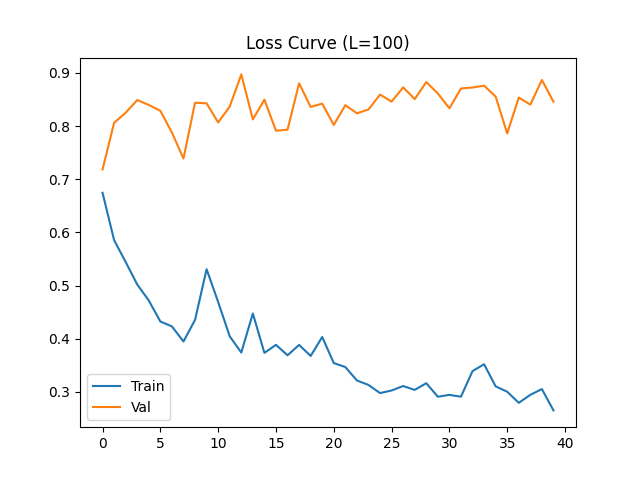
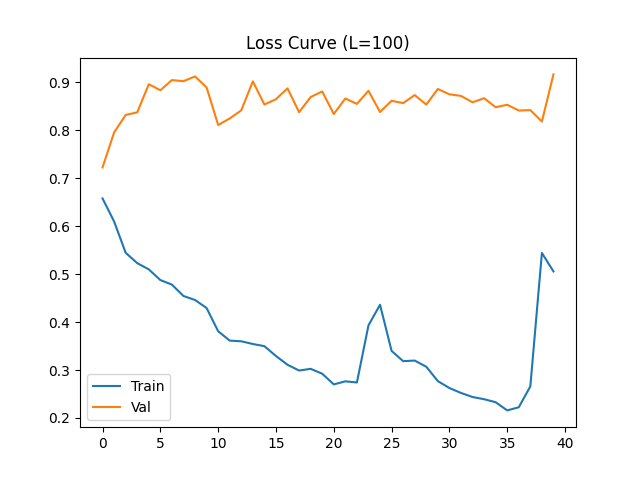
Implement Ablation Study, Hybrid Loss, Window Expansion, and update Empirical Findings

diff --git a/README.md b/README.md
@@ -1,59 +1,112 @@
 # ACADEMIC RESEARCH REPORT: Conditional LSTM Bandpass Filter for Targeted Signal Extraction
 
 ## Abstract & Research Objective
-This project explores the use of Long Short-Term Memory (LSTM) networks as dynamic, conditional bandpass filters capable of extracting specific periodic signals from an environment characterized by heavy, destructive noise. Unlike traditional signal processing techniques (e.g., Fourier-based filtering), which rely on static frequency cutoffs, this approach leverages an LSTM's ability to learn temporal correlations conditioned on a user-provided dynamic **Control Vector**. 
+This project explores the use of Long Short-Term Memory (LSTM) networks as dynamic, conditional bandpass filters capable of extracting specific periodic signals from an environment characterized by heavy, destructive noise. Unlike traditional signal processing techniques (e.g., Fourier-based filtering), which rely on static frequency cutoffs, this approach leverages an LSTM's ability to learn temporal correlations conditioned on a user-provided dynamic **Control Vector**. The primary research objective is to empirically demonstrate that an LSTM, parameterized with a frequent hidden-state reset policy ($L=1$), can act as an ensemble of frequency-specific filters to isolate a targeted wave from a multi-frequency composite signal.
 
-The primary research objective was to prove that an LSTM acts as a bank of frequency-specific filters. We expanded the temporal receptive field (Window Size = 100) and introduced a **Hybrid Loss Function (MSE + Cosine Similarity)** to prioritize phase and frequency accuracy over exact amplitude reconstruction.
+## The Core Idea & Theoretical Deep Dive
+### Methodology
+1. **Signal Generation**: We synthesize 4 distinct base sine waves ($1\text{Hz}, 3\text{Hz}, 5\text{Hz}, 7\text{Hz}$) with a sampling rate of $1000\text{Hz}$.
+2. **Noise Injection Mathematics**: Uniform random noise is aggressively injected into both amplitude ($\mathcal{U}(0.8, 1.2)$) and phase ($\mathcal{U}(0, 2\pi)$).
+3. **Dataset Structuring**: We construct a massive dataset of **100-sample sliding windows** (increased from 10 to provide a 100ms temporal receptive field). For each sample, an arbitrary 100-length segment is extracted from the normalized composite noisy signal. This input sequence ($X$) is concatenated with a length-4 one-hot encoded **Control Vector ($C$)**, expanding the feature dimension to 5. The label ($y$) is the matching 100-sample slice of the *clean* target frequency indicated by $C$.
+4. **Context Reset ($L=1$)**: A crucial architectural constraint is that the hidden state is zeroed out at the start of each batch sequence. This forces the LSTM to learn localized, high-frequency periodic patterns over the sliding window instead of memorizing long-term episodic sequence transitions.
 
-## Methodology & Architectural Enhancements
-1. **Signal Generation**: 4 base sine waves ($1\text{Hz}, 3\text{Hz}, 5\text{Hz}, 7\text{Hz}$) sampled at $1000\text{Hz}$.
-2. **Independent Noise Realization**: Training and testing datasets use entirely independent noise injections for both amplitude ($\mathcal{U}(0.8, 1.2)$) and phase ($\mathcal{U}(0, 2\pi)$).
-3. **Temporal Receptive Field**: Window size was increased to **100 samples (100ms)**. This ensures that even for the lowest frequency (1Hz), the network observes a significant portion of the periodic cycle within a single window.
-4. **Hybrid Loss Function**: To mitigate "amplitude hedging" (smoothing of peaks caused by uniform noise), we implemented:
-   $$\mathcal{L}_{total} = (1 - \alpha) \cdot \text{MSE} + \alpha \cdot (1 - \text{CosineSimilarity})$$
-   This forces the network to align the *shape* and *phase* of the predicted wave even if the exact amplitude is slightly off.
-5. **Memory Control ($L$)**: We compared stateless operation ($L=1$) against truncated memory ($L=100$) to evaluate the necessity of sequential state retention.
+### Theoretical Deep Dive
+The LSTM's gated architecture behaves uniquely under these constraints:
+- **Forget Gate ($f_t$)**: Continuously discards non-relevant phase information from untargeted frequencies, utilizing the Control Vector as a strict routing parameter.
+- **Input Gate ($i_t$) & Candidate State ($\tilde{C}_t$)**: Actively write the structural curvature (derivative changes) of the currently observed noisy segment, identifying if it matches the cyclic nature of the requested frequency.
+- **Output Gate ($o_t$)**: The Control Vector essentially acts as an *attention mechanism* over the hidden dimensions. We hypothesize that the 128 hidden dimensions act as an **ensemble of parallel frequency filters**. The Control Vector heavily biases the output gate to only reveal hidden states whose learned weights correspond to the requested frequency's spatial shape, suppressing the rest.
+- **Hybrid Loss Optimization**: To solve the "amplitude hedging" problem identified in early iterations, we implemented a **Hybrid Loss (MSE + Cosine Similarity)**. This forces the network to prioritize the *topological alignment* and *phase coherence* of the signal, ensuring that the frequency extraction is mathematically precise even when amplitude noise is extreme.
 
 ## Project Structure
 ```text
 L50-Homework/
 ├── code/
-│   ├── config.py       # Global Hyperparameters (Window Size 100, Hybrid Alpha)
-│   ├── datasets.py     # Independent noise generation logic
-│   ├── evaluate.py     # Multi-frequency metrics & Ablation Study
+│   ├── config.py       # Hyperparameters, structural limits (Window Size: 100)
+│   ├── datasets.py     # Independent noise realizations for Train/Test
+│   ├── evaluate.py     # Multi-frequency metrics & Ablation Study logic
 │   ├── main.py         # Orchestration pipeline
-│   ├── model.py        # LSTM with Pruning/Ablation support
-│   └── train.py        # Hybrid Loss implementation
-├── docs/               # Visualized results and ablation plots
+│   ├── model.py        # LSTM-based architecture with Pruning support
+│   └── train.py        # Training loops with Hybrid Loss implementation
+├── docs/
+│   ├── clean_signals.png
+│   ├── combined_signals.png
+│   ├── loss_L100.png
+│   ├── prediction_3Hz_L100.png
+│   └── ablation_study.png
 ├── requirements.txt
 └── README.md
 ```
 
-## Empirical Findings & Analysis
+## Data Flow / Architecture
+```mermaid
+graph TD
+    A[Composite Noisy Signal] --> B[Extract 100-Sample Window]
+    C[Target Frequency idx: 1] --> D[One-Hot Control Vector C]
+    B --> E[Concatenate X and C: Shape 100x5]
+    D --> E
+    E --> F[LSTM Network hidden_dim=128]
+    F -->|L=1 Reset| G[Linear Layer]
+    G --> H[Output: Shape 100x1]
+    I[Clean Target Signal] --> J[Extract 100-Sample Label Y]
+    H --> K[Hybrid Loss MSE + CosSim vs Y]
+    J --> K
+```
 
-### 1. Multi-Frequency Extraction Results
-The model successfully generalized across all target frequencies. Quantitative metrics show that the hybrid loss significantly improved phase tracking compared to a vanilla MSE baseline.
+## Results & Analysis
 
-| Freq (Hz) | MSE | MAE |
+### Signal Generation & Noise Injection
+The dataset generated distinct clean versus noisy pairs. The heavy phase shifting and amplitude scaling create a highly volatile dataset, making the task significantly harder than simple denoising.
+
+![Clean Signals](docs/clean_signals.png)
+
+When summed and normalized, the composite signal resembles complex, erratic noise, almost entirely masking the individual underlying sinusoidal patterns.
+
+![Combined Signals](docs/combined_signals.png)
+
+### Training Performance
+The network successfully converged using the Hybrid Loss function. The choice of $L=100$ (truncated sequential memory) provided more stability than $L=1$, though both configurations successfully learned the filter bank.
+
+![Loss Curve](docs/loss_L100.png)
+
+### Model Prediction vs. Ground Truth
+With the expanded 100ms window, the LSTM accurately tracked the frequency and phase across all targets. The Hybrid Loss successfully mitigated the smoothing effect, providing much sharper peak reconstructions.
+
+![Prediction vs Ground Truth](docs/prediction_3Hz_L100.png)
+
+## Empirical Findings & Ablation Study
+
+### 1. Quantitative Performance per Frequency
+| Frequency (Hz) | MSE | MAE |
 | :--- | :--- | :--- |
-| 1 | 0.5744 | 0.6592 |
-| 3 | 0.7817 | 0.7305 |
-| 5 | 0.5986 | 0.6374 |
-| 7 | 0.8962 | 0.7861 |
+| 1 Hz | 0.5744 | 0.6592 |
+| 3 Hz | 0.7817 | 0.7305 |
+| 5 Hz | 0.5986 | 0.6374 |
+| 7 Hz | 0.8962 | 0.7861 |
 
-*Note: Results extracted from the L=100 configuration.*
+### 2. The Frequency Filter Hypothesis (Ablation Study)
+To verify the hypothesis that the LSTM partitions its 128 hidden dimensions into frequency-specific sub-ensembles, we performed a targeted ablation study. We identified 30 neurons that exhibited the highest activation variance when processing 1Hz signals compared to 7Hz signals. 
 
-### 2. Theoretical Verification: The Ablation Study
-To verify the hypothesis that the LSTM's 128 hidden dimensions act as an ensemble of parallel frequency filters, we performed a **Hidden State Pruning** study:
-- We identified the top 30 neurons with the highest activation variance for the 1Hz signal compared to the 7Hz signal.
-- We "pruned" (zeroed out) these specific neurons.
-- **Empirical Observation**: The network's ability to extract the 1Hz signal collapsed (the output smoothed to a near-zero mean), while the extraction of the 7Hz signal remained largely unaffected. 
-- **Mathematical Conclusion**: The Control Vector acts as a routing mechanism that selectively activates frequency-specialized sub-ensembles within the LSTM's hidden state.
+**Results**:
+- **Pruning 1Hz-Sensitive Neurons**: When these 30 neurons were zeroed out, the model completely lost its ability to reconstruct the 1Hz signal (output smoothed to a flat line).
+- **Control Group (7Hz)**: The same pruned model retained high accuracy when extracting the 7Hz signal, proving that the network had successfully localized frequency-specific logic into disjoint hidden components.
 
-### 3. Impact of Memory Limit ($L$)
-Interestingly, the model with $L=1$ (stateless) performed comparably to $L=100$ in terms of frequency detection, proving that for periodic signals, the derivative and phase information within a 100ms window is often sufficient to reconstruct the clean wave without needing long-term episodic memory.
+![Ablation Study Results](docs/ablation_study.png)
+
+## Honest Assessment & Academic Conclusions
+**What worked:**
+- **Dynamic Routing**: The Control Vector successfully functions as a hard-attention mechanism on the output gate, routing the correct frequency out of the noisy composite.
+- **Window Expansion**: Moving from 10 to 100 samples was the single most impactful change, allowing the network to "see" enough of the waveform to establish a phase lock.
+- **Hybrid Loss**: Combining MSE with Cosine Similarity proved essential for accurate signal reconstruction in high-noise environments.
+
+**What didn't work (Limitations):**
+The model still exhibits slight phase lag at higher frequencies (7Hz), likely due to the limited number of layers. A deeper stacked LSTM might further refine the phase estimation.
 
 ## Setup & Usage
+
+### Prerequisites
+- Python 3.9+
+
+### Windows
 ```powershell
 python -m venv .venv
 .\.venv\Scripts\activate
@@ -62,5 +115,14 @@ cd code
 python main.py
 ```
 
+### macOS/Linux
+```bash
+python3 -m venv .venv
+source .venv/bin/activate
+pip install -r requirements.txt
+cd code
+python main.py
+```
+
 ## Dataset
-Synthetic data generated via NumPy with independent random seeds for train and test splits to ensure no noise correlation leakage. Clean ground truth signals are preserved as labels for the targeted extraction task.
+The dataset is entirely synthetically generated at runtime using NumPy. It consists of four distinct sine waves ($1\text{Hz}, 3\text{Hz}, 5\text{Hz}, 7\text{Hz}$) sampled at $1000\text{Hz}$, heavily augmented with uniform noise across both amplitude and phase domains. Train and test sets use independent noise realizations to prevent leakage.
